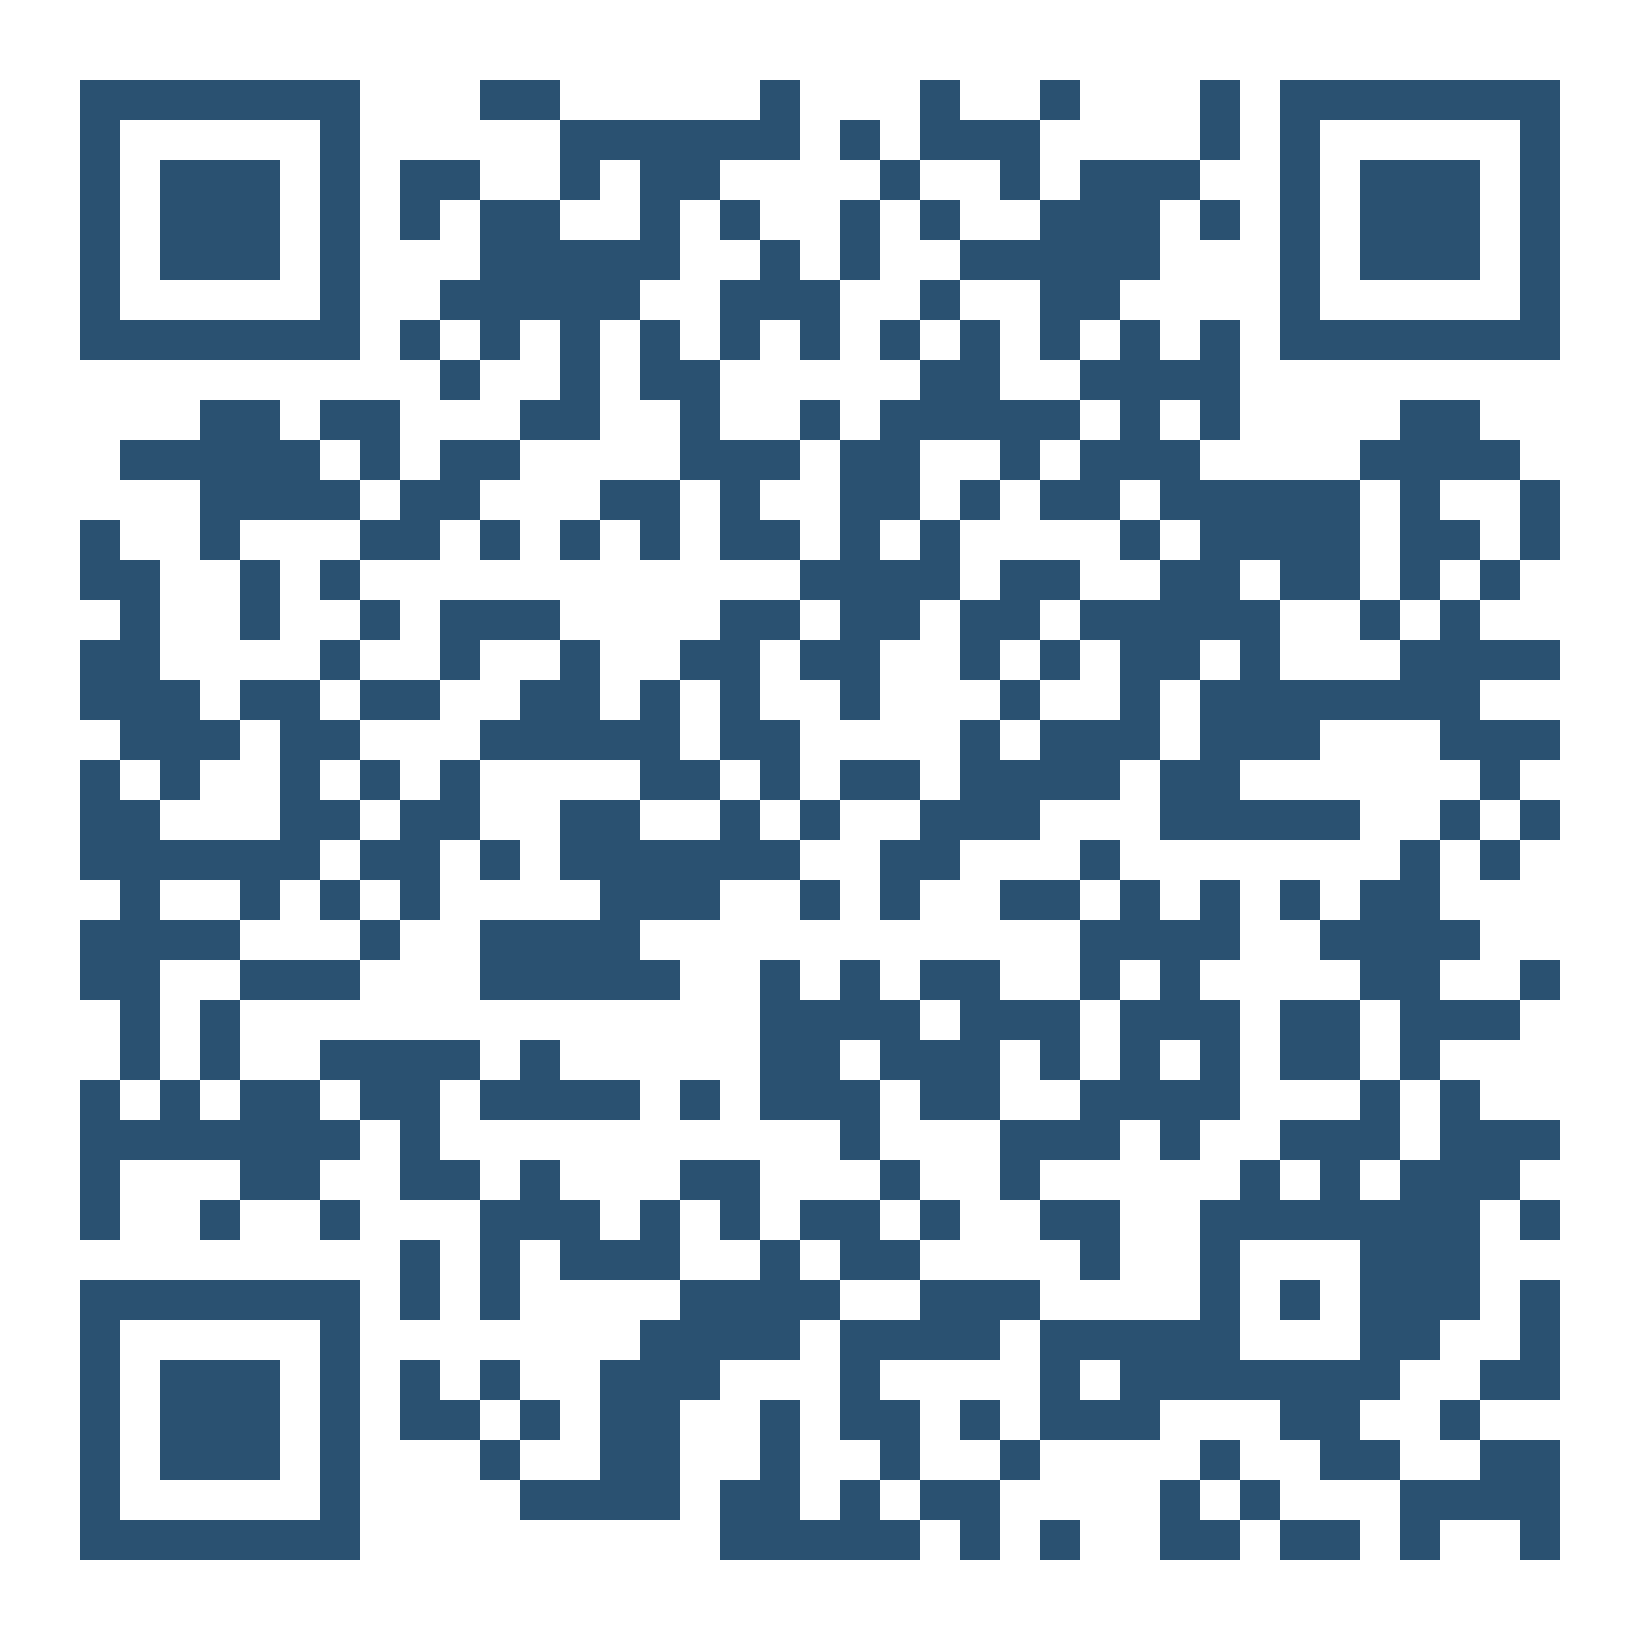
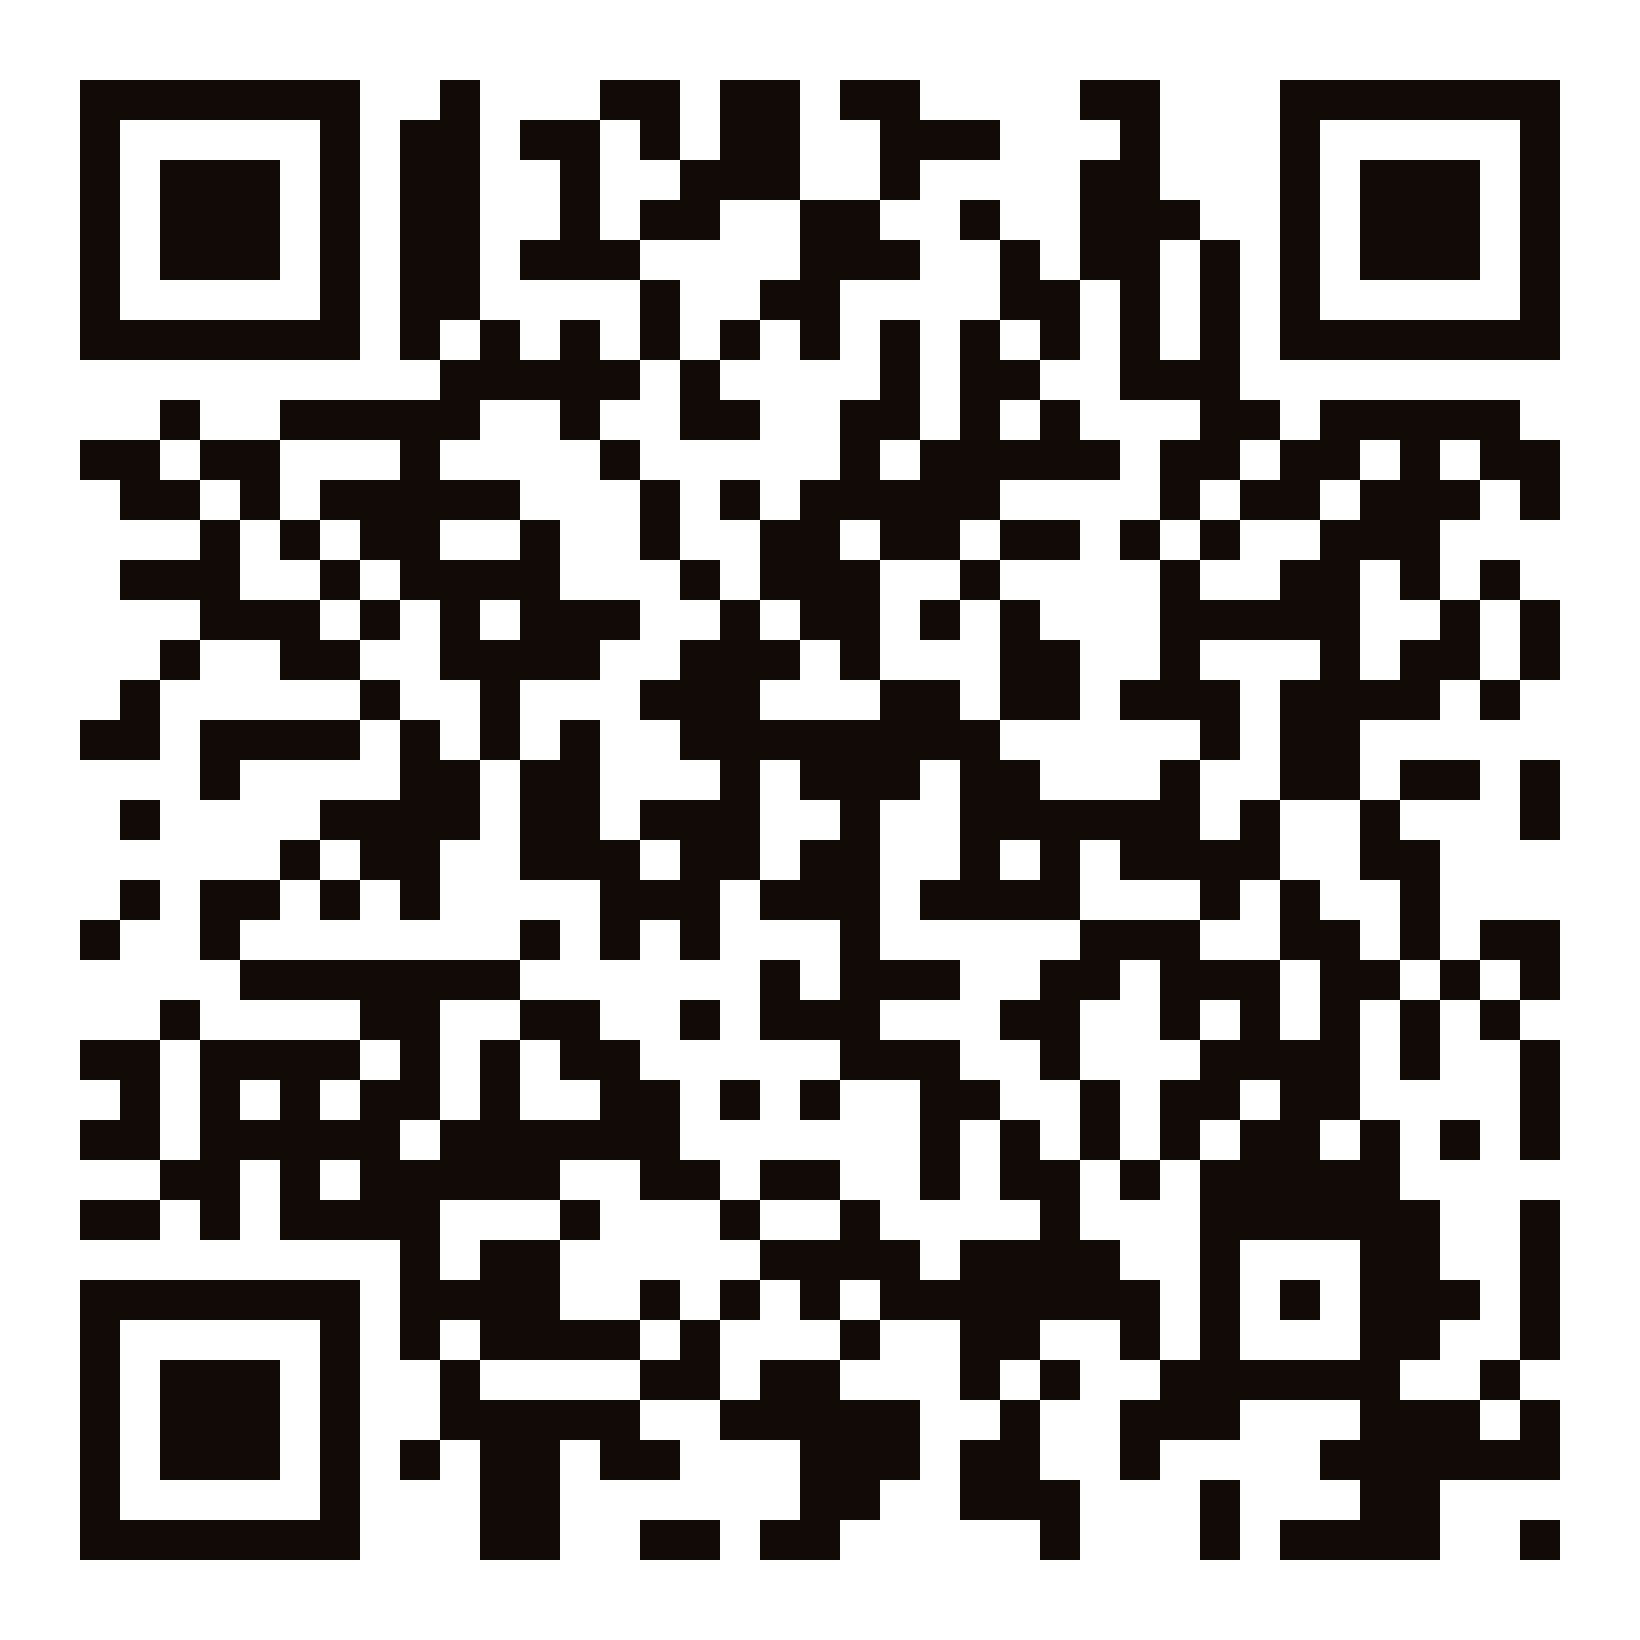
Apuntar enlace y QR a mjmolinao.github.io/tarjeta-mi-eelo

diff --git a/index.html b/index.html
@@ -7,7 +7,7 @@
 <meta name="description" content="mi eelo: tote bags, playeras, kits y regalos hechos por las mujeres de mi eelo en Guatemala. Cotizá por WhatsApp, mirá el catálogo y conocé la historia.">
 <meta property="og:title" content="mi eelo · Hecho con ganas en Guatemala">
 <meta property="og:description" content="Tote bags, playeras, kits y regalos para tu marca u organización. Cotizá por WhatsApp.">
-<meta property="og:image" content="https://adrian-9856.github.io/landing-majo/assets/portada.jpg">
+<meta property="og:image" content="https://mjmolinao.github.io/tarjeta-mi-eelo/assets/portada.jpg">
 <meta name="theme-color" content="#120A06">
 <meta name="color-scheme" content="dark only">
 <link rel="preconnect" href="https://fonts.googleapis.com">
@@ -264,7 +264,7 @@ footer a{text-decoration:underline;text-decoration-color:var(--borde);text-under
 <script src="https://cdnjs.cloudflare.com/ajax/libs/qrcodejs/1.0.0/qrcode.min.js"></script>
 <script>
 (function(){
-  var URL_TARJETA = 'https://adrian-9856.github.io/landing-majo/';
+  var URL_TARJETA = 'https://mjmolinao.github.io/tarjeta-mi-eelo/';
   var T = {
     es:{
       pill:'Hecho en Guatemala',
